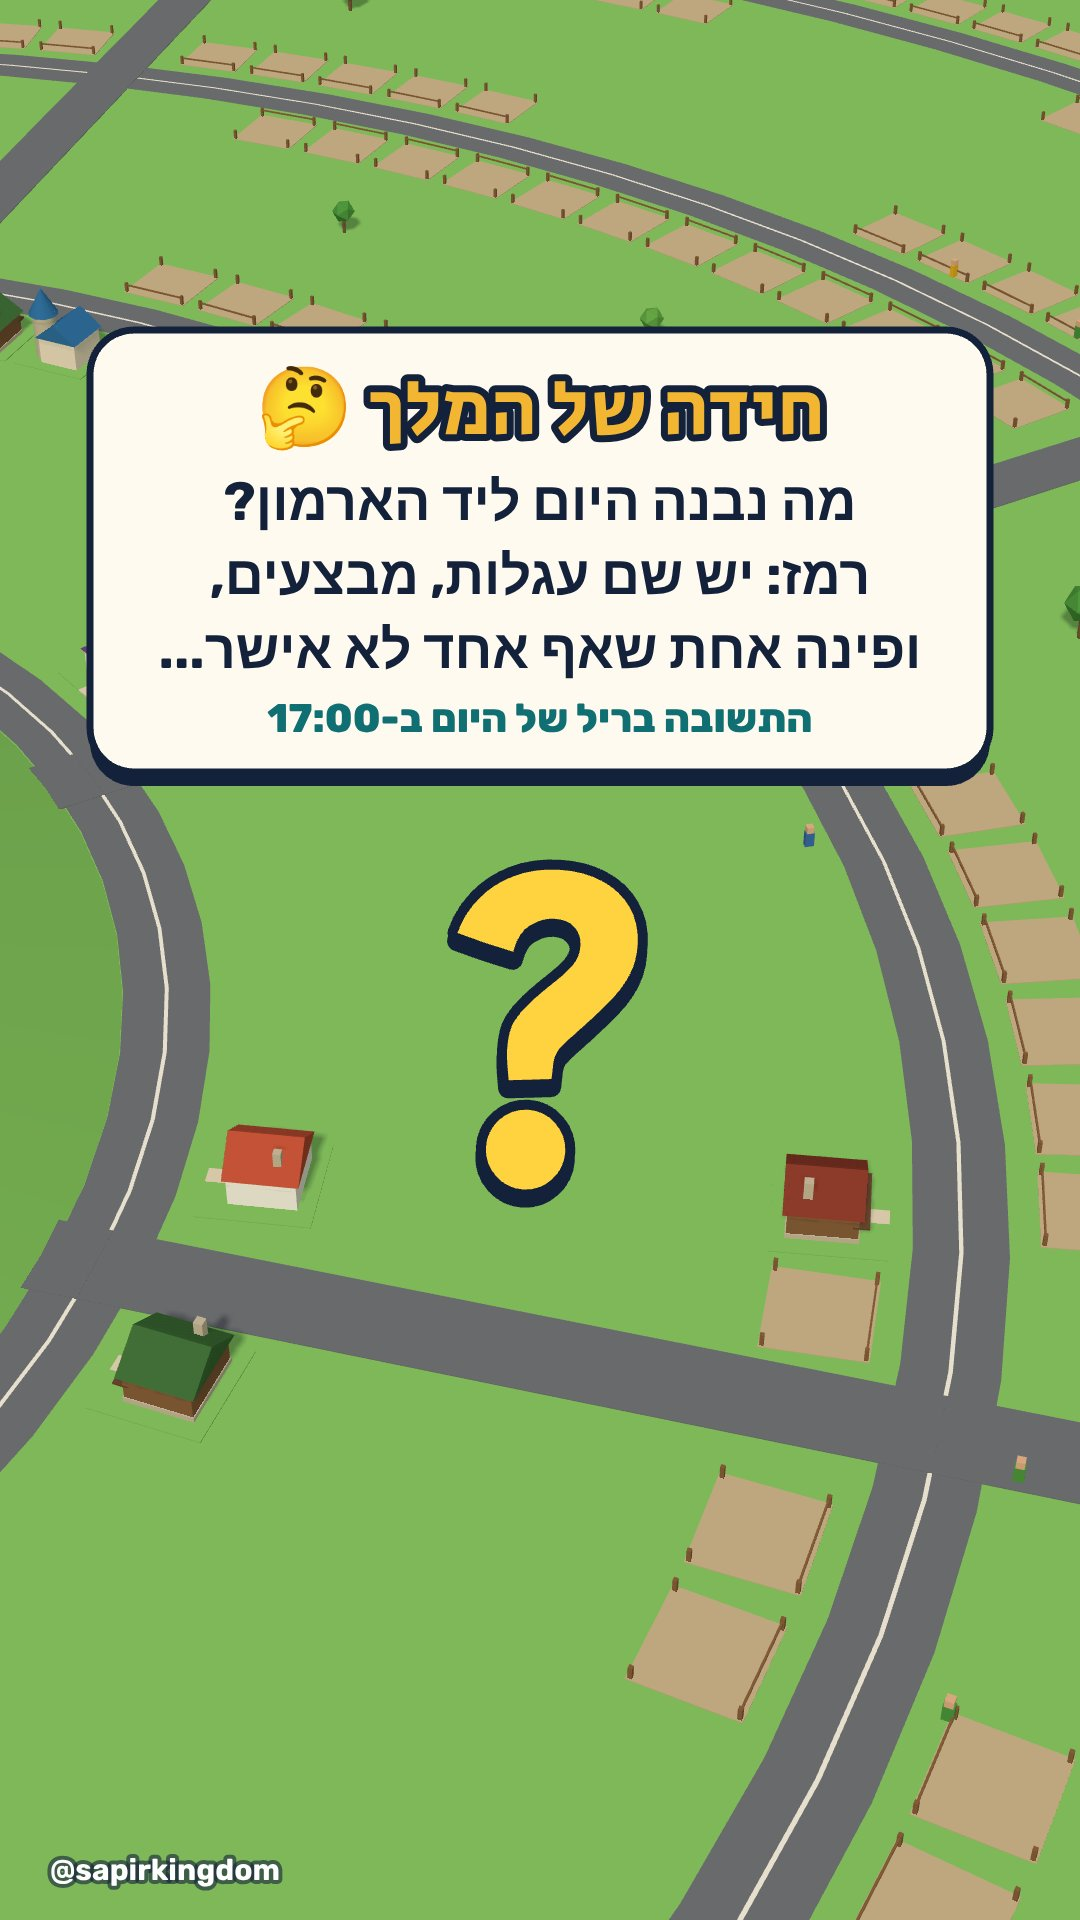
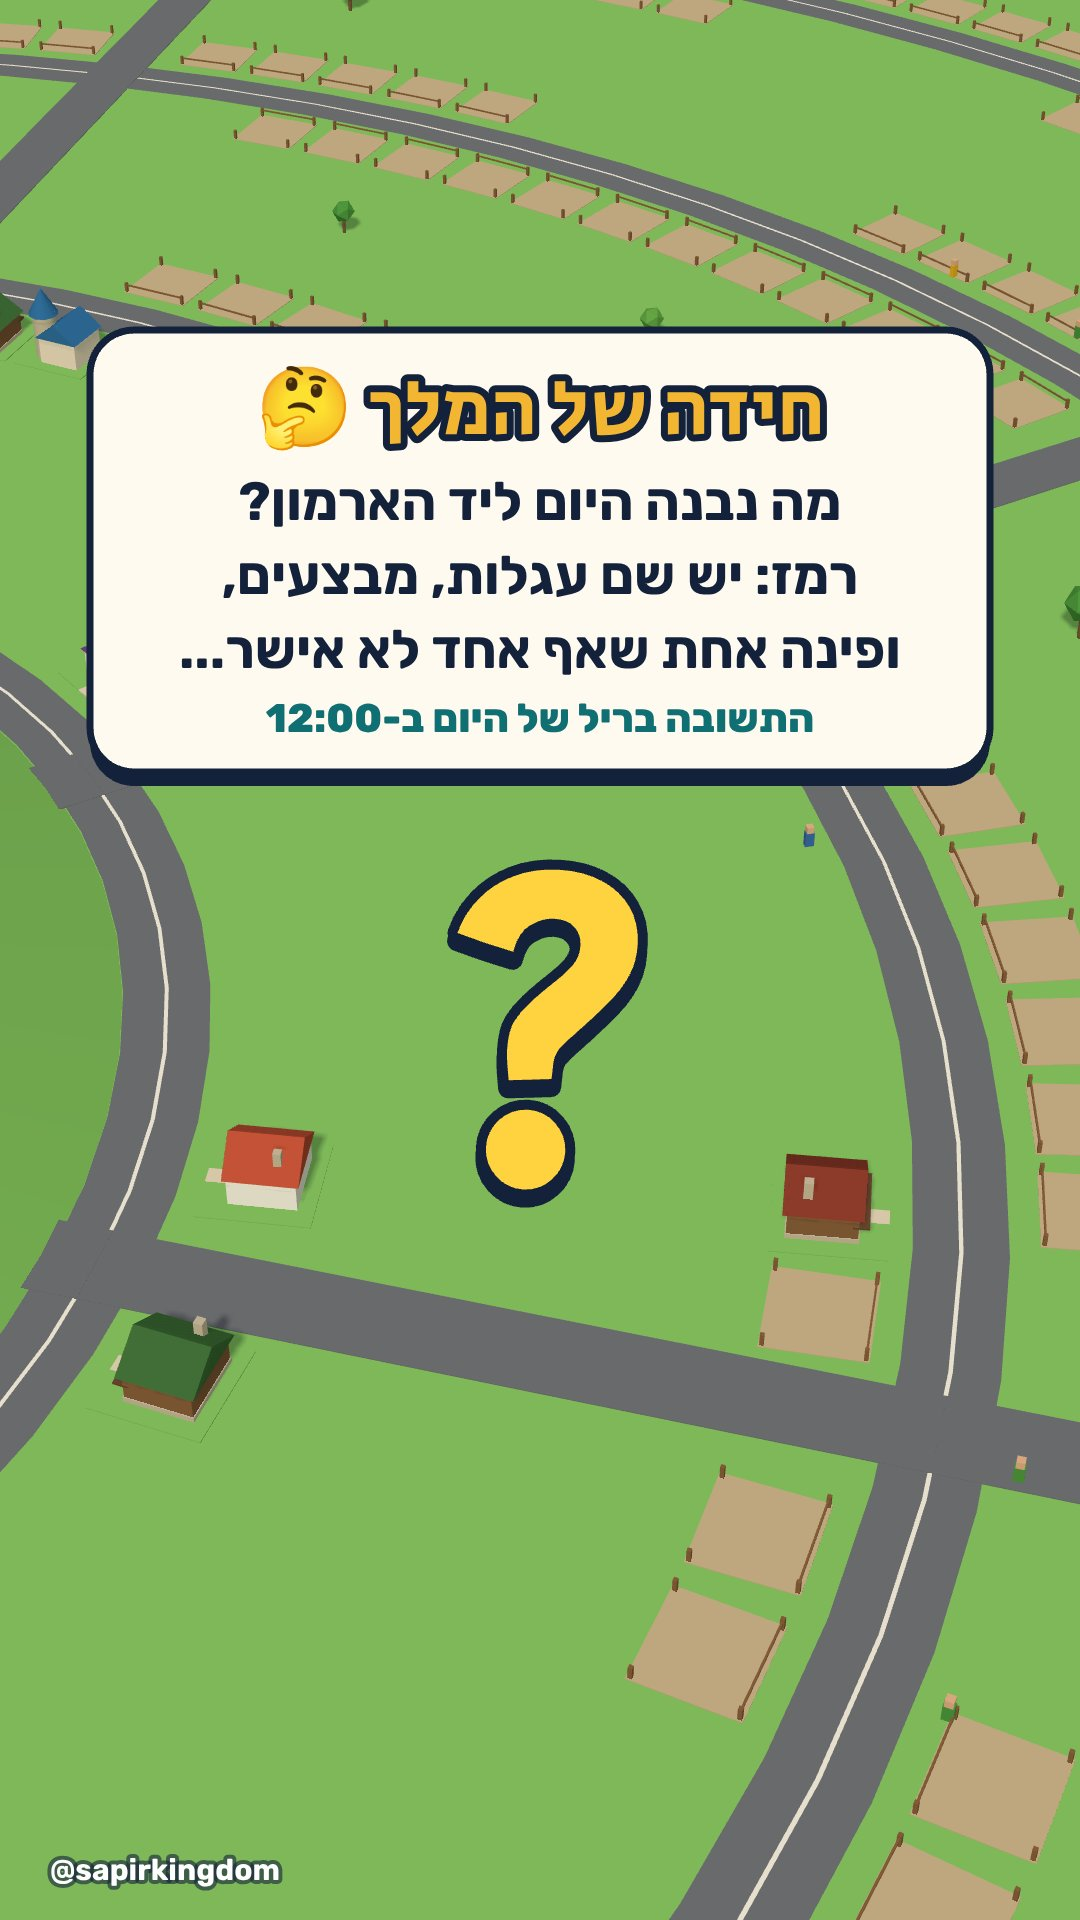
Stories for day 2 at 09:00, 10:30, 12:15 and 17:00; the reel at 12:00

Changed region(s): [[0.1833, 0.25, 0.8556, 0.375]]

diff --git a/CLAUDE.md b/CLAUDE.md
@@ -86,7 +86,7 @@ Keep reels about 30 seconds. Captions: at most three words, cut at the voice's p
   (sticker, banner, flash, vignette, confetti, shake, punch). Show on screen everything the king talks about.
 - Render the reel yourself, send it to Michael, and when he approves commit it (`git add -f site/reels/dayN.mp4`):
   publish.yml then posts that file instead of rendering again. `"trial": true` posts it as a trial reel (to non-followers
-  first). Post around 17:00 Israel time.
+  first). Post around 12:00 Israel time: Michael wants the reel up early and as much content as possible.
 - Stories, 2 to 3 a day: render 1080×1920 stills (an episode with one shot, `top: 330`, `note` cards, stickers) into
   `site/stories/`, and list them in `site/stories/plan.json` with their time (UTC); the clock posts each once.
   Ideas: good morning with a dragon teaser, a riddle about what is built today, the reveal after the reel, the resident
